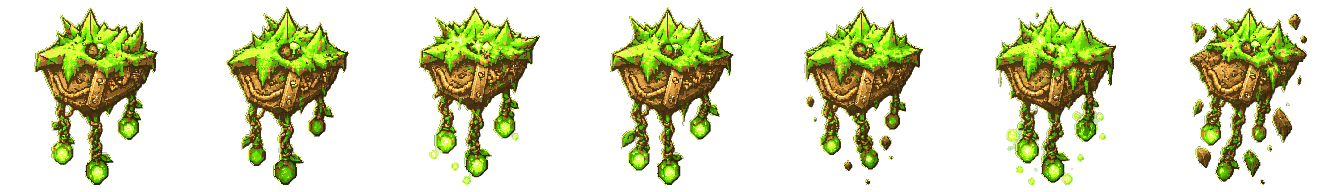
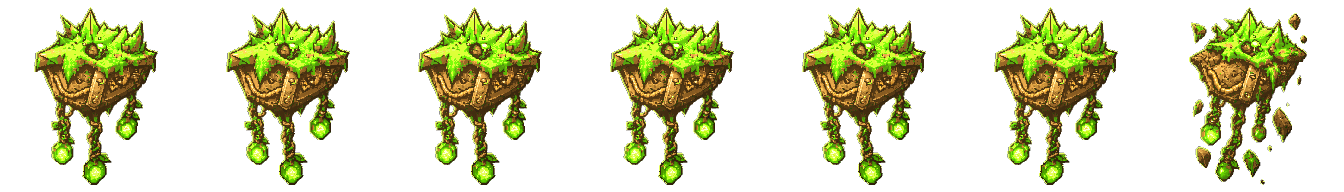
Verdant spore rock + vine rock: stable-body idle redraw. Spore: vents blink as eyelids, frames 0-5 differ only inside the vent regions. Vine: rock body pixel-identical, vines sway left/right (shear about attach, phase-lagged). Hit frame 6 untouched. Generators in src~/verdant_rockanim

diff --git a/Pause/Assets/Art/Enemies/src~/verdant_rockanim/vine_sway.py b/Pause/Assets/Art/Enemies/src~/verdant_rockanim/vine_sway.py
@@ -1,0 +1,39 @@
+from PIL import Image, ImageDraw
+import numpy as np, math, sys
+R='/Users/sina/Developer/Pause-rockanim/Pause/Assets/Art/Resources/Enemies/'
+src=np.array(Image.open(R+'verdant_rock_vine.png'))
+f0=src[:,:192].copy()
+EDGE=[(0,98),(56,98),(75,108),(88,121),(100,121),(110,108),(128,96),(192,96)]
+# rock-static: above polyline
+xs=np.arange(192)
+edge=np.interp(xs,[p[0] for p in EDGE],[p[1] for p in EDGE])
+yy,xx=np.mgrid[0:192,0:192]
+alpha=f0[...,3]>0
+moving=alpha&(yy>edge[xx])
+VINES=[(0,80,100,0.0),(80,114,118,0.25),(114,192,98,0.5)]  # xmin,xmax,attach y,phase lag
+def sway(k_phase,A,lag):
+    return math.sin(2*math.pi*(k_phase-lag))
+def make(ph,A=5.0):
+    out=f0.copy(); out[moving]=0
+    for x0,x1,ya,lag in VINES:
+        s=math.sin(2*math.pi*(ph-lag*0.5))
+        for y in range(192):
+            w=max(0,min(1,(y-ya)/75))**1.2
+            sh=int(round(A*s*w))
+            cols=np.where(moving[y]&(xx[y]>=x0)&(xx[y]<x1))[0]
+            for x in cols:
+                nx=x+sh
+                if 0<=nx<192 and (moving[y,nx] or not alpha[y,nx]): out[y,nx]=f0[y,x]
+    return out
+if __name__=='__main__':
+    phs=[0.0,0.25,0.5,0.75,0.375,0.875]   # 0..3 loop; 4,5 tell: hard whip left / right
+    amps=[5,5,5,5,8,8]
+    out=src.copy()
+    frames=[]
+    for i,(p,A) in enumerate(zip(phs,amps)):
+        f=make(p,A); out[:,i*192:(i+1)*192]=f
+    Image.fromarray(out).save('vine_new.png')
+    np.save('vine_moving.npy',moving)
+    m=np.array(Image.fromarray(f0)); ov=m.copy(); ov[moving,0]=255
+    bg=Image.new('RGBA',(192,192),(20,20,40,255));bg.alpha_composite(Image.fromarray(ov));bg.resize((768,768),Image.NEAREST).save('mask.png')
+    bg=Image.new('RGBA',(1152,192),(20,20,40,255));bg.alpha_composite(Image.fromarray(out[:,:1152]));bg.resize((2304,384),Image.NEAREST).save('vn_prev.png')

diff --git a/Pause/Assets/Art/Enemies/src~/verdant_rockanim/spore_blink.py b/Pause/Assets/Art/Enemies/src~/verdant_rockanim/spore_blink.py
@@ -1,0 +1,41 @@
+from PIL import Image
+import numpy as np, sys
+R='/Users/sina/Developer/Pause-rockanim/Pause/Assets/Art/Resources/Enemies/'
+src=np.array(Image.open(R+'verdant_rock_spore.png'))
+f0=src[:,:192].copy()
+VENTS=[(53,105,15),(104,98,24),(76,145,15),(132,140,16)]
+yy,xx=np.mgrid[0:192,0:192]
+def lit(a):
+    r,g,b=a[...,0].astype(int),a[...,1].astype(int),a[...,2].astype(int)
+    return (a[...,3]>200)&(g>140)&(g-b>50)&(g+25>=r)
+L=lit(f0)
+masks=[]
+for cx,cy,r in VENTS:
+    masks.append(L&((xx-cx)**2+(yy-cy)**2<=r*r))
+region=np.zeros((192,192),bool)
+for m in masks: region|=m
+LID=np.array([58,84,18,255],np.uint8); LID2=np.array([104,138,28,255],np.uint8)
+def frame(open_frac,flare=0):
+    f=f0.copy()
+    for (cx,cy,r),m in zip(VENTS,masks):
+        ys,xs=np.where(m)
+        top,bot=ys.min(),ys.max(); c=(top+bot)/2; half=(bot-top)/2*open_frac
+        for y,x in zip(ys,xs):
+            d=abs(y-c)
+            if open_frac<=0: edge=1.0
+            else: edge=d-half
+            if open_frac>0 and d<=half: 
+                continue
+            # lid
+            f[y,x]=LID2 if (open_frac>0 and d-half<1.5) or (open_frac<=0 and abs(y-c)<=1) else LID
+            if open_frac<=0 and abs(y-c)<=0.6: f[y,x]=np.array([150,200,40,255],np.uint8)  # closed seam glint
+    if flare:
+        for m in masks:
+            sel=m
+            f[sel,0]=np.clip(f[sel,0]*1.0+40,0,255); f[sel,1]=255; f[sel,2]=np.clip(f[sel,2]+60,0,255)
+    return f
+seq=[frame(1.0),frame(0.45),frame(0.0),frame(0.45),frame(0.0),frame(1.0,flare=1)]
+out=src.copy()
+for i,f in enumerate(seq): out[:,i*192:(i+1)*192]=f
+Image.fromarray(out).save('spore_new.png')
+np.save('spore_region.npy',region)
